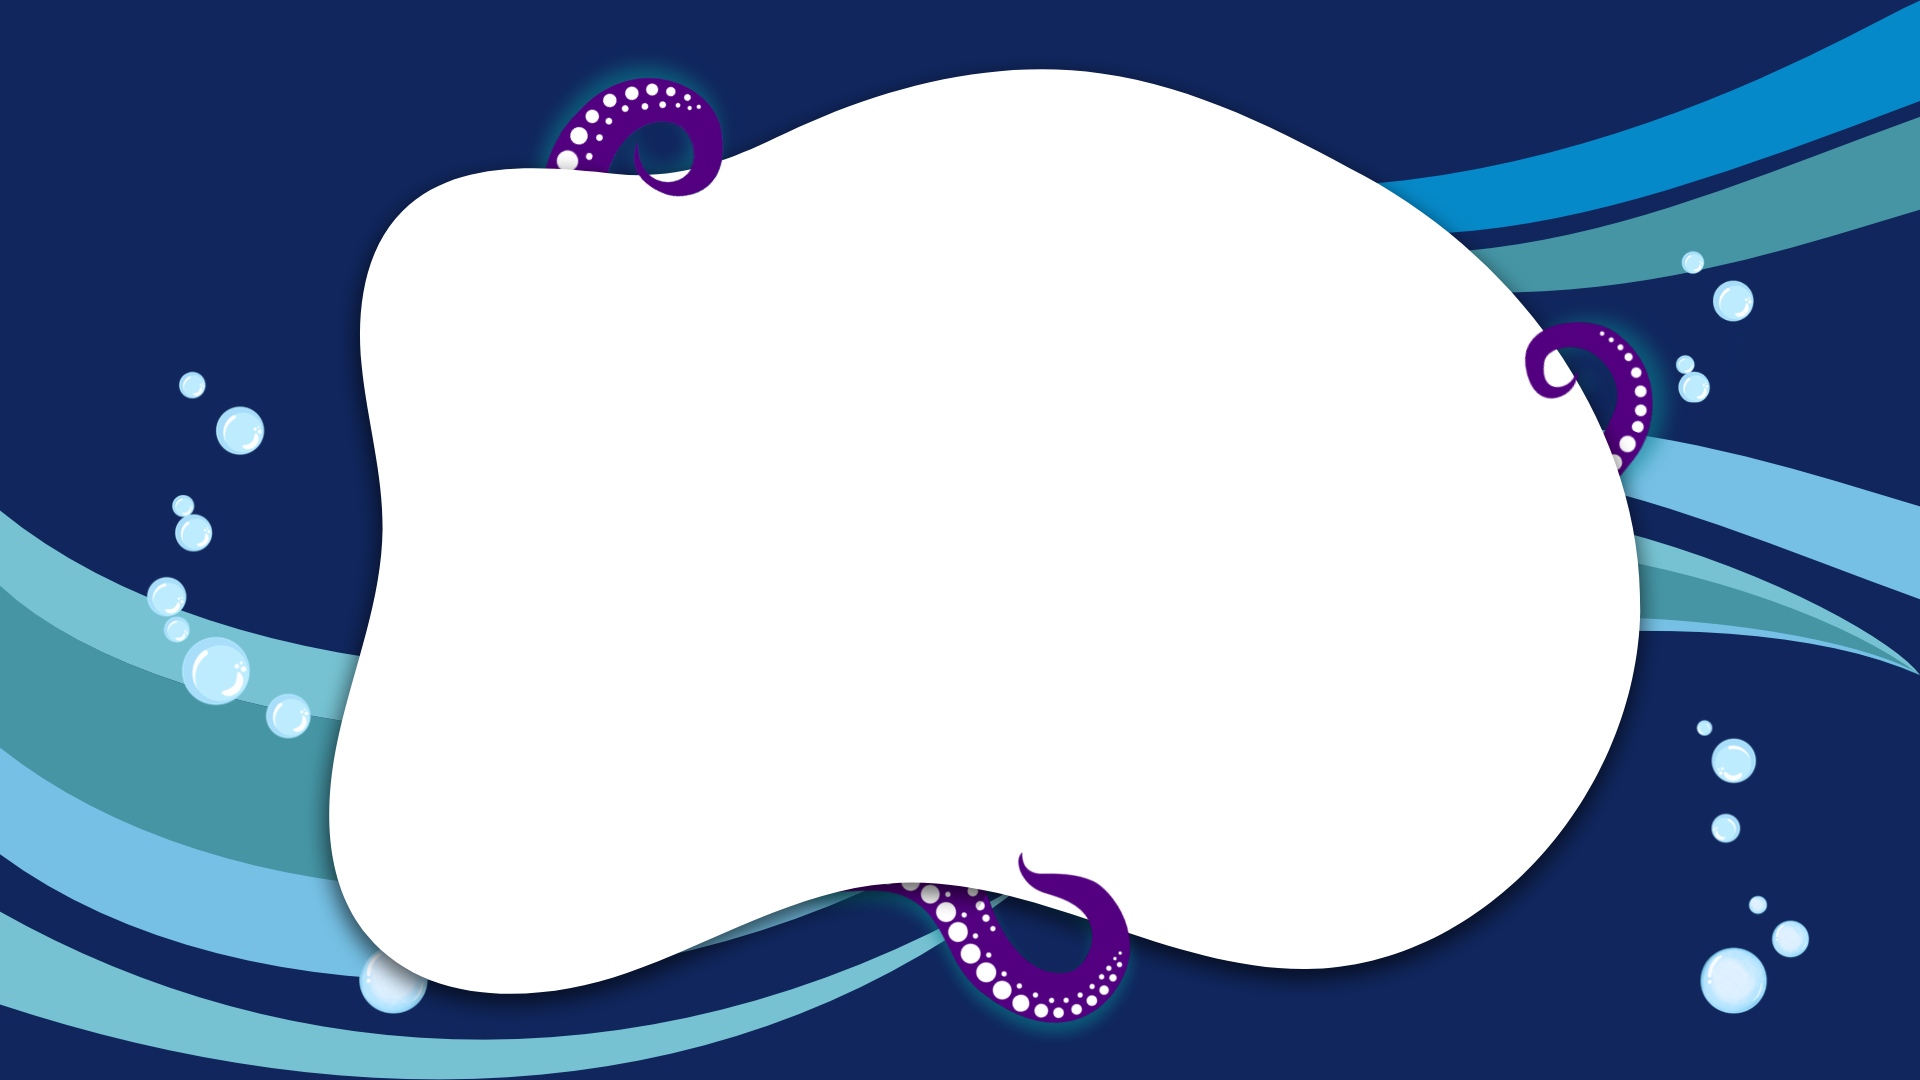
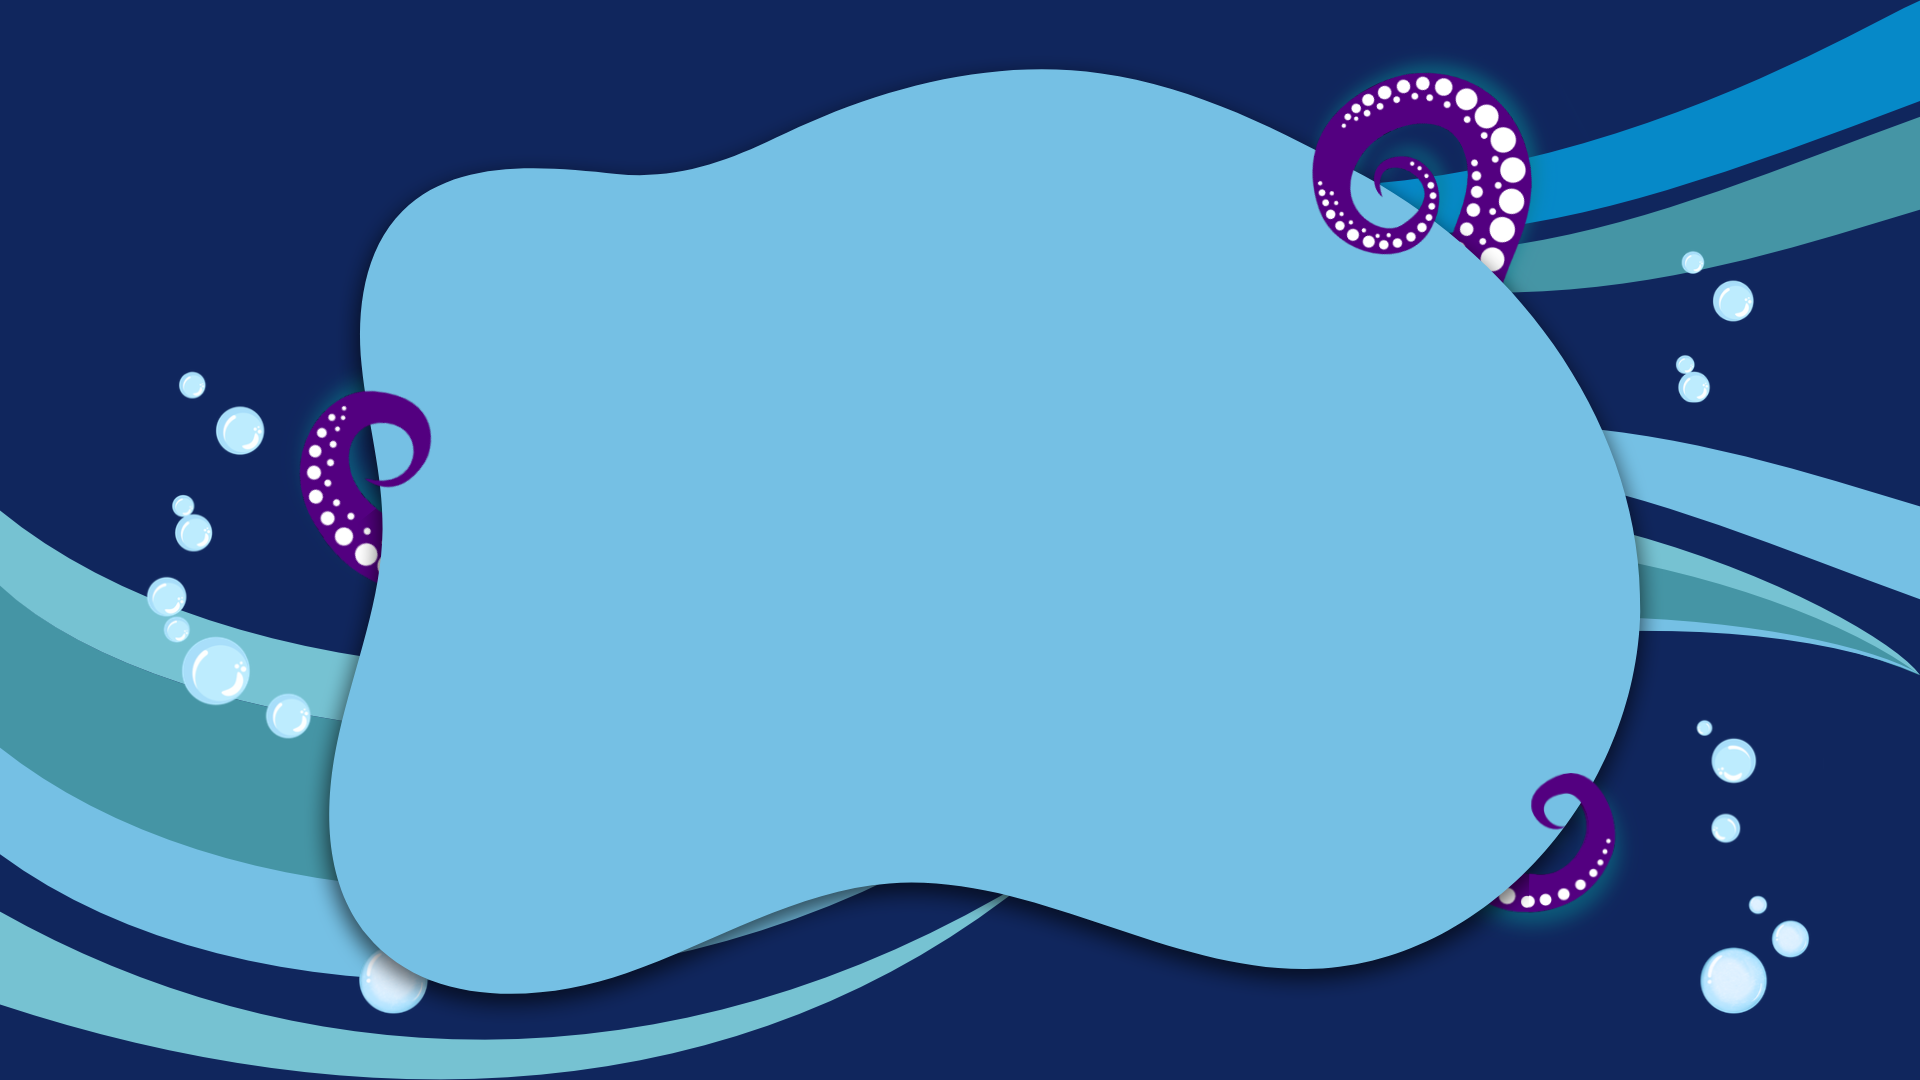
Fix dark-mode hero/tag contrast and pull category images on archives
Swap the dark-mode hero frame for the new sky-blue-panel variant, then
fix the resulting contrast issues: hero date tag and category pills
were relying on translucent teal that blended into the new panel, so
both switch to solid fills (purple / navy) that hold ~6-7:1 contrast.
Also brightened category/tag pills sitewide in dark mode (teal-bright
instead of base teal) and gave the sidebar octopus plate a matching
sky-blue background instead of stark white.

Category tiles on the archives page previously showed a flat color
square since taxonomy term pages have no cover image of their own;
they now pull the cover image from the latest post in that category.

diff --git a/blog/assets/scss/custom.scss b/blog/assets/scss/custom.scss
@@ -49,6 +49,7 @@ figure.float-right {
     --brand-lightblue: #bdecfe;
     --brand-teal: #4faab3;
     --brand-teal-bright: #7dc4cb;
+    --brand-sky: #75c0e4;
     --brand-ink: #06171f;
 
     --base-font-family: "Garet", var(--sys-font-family), var(--zh-font-family), sans-serif;
@@ -94,21 +95,29 @@ figure.float-right {
         --card-text-color-tertiary: rgba(238, 247, 252, 0.55);
         --card-separator-color: rgba(238, 247, 252, 0.14);
 
-        --changelog-category-bg: rgba(79, 170, 179, 0.22);
-        --changelog-category-bg-hover: rgba(79, 170, 179, 0.34);
-        --changelog-category-text: var(--brand-lightblue);
+        /* Solid teal-bright, not a translucent teal tint - a rgba(teal) over
+           the dark navy card blends back toward navy and barely reads as a
+           chip at all (contrast-checked at ~1.4:1 against the card). */
+        --changelog-category-bg: var(--brand-teal-bright);
+        --changelog-category-bg-hover: var(--brand-teal);
+        --changelog-category-text: var(--brand-ink);
     }
 }
 
 /*
-*   Sidebar mark: give the octopus a constant white plate so the purple
-*   mark reads the same on both the light and navy-dark page background.
+*   Sidebar mark: give the octopus a plate so the purple mark reads clearly
+*   against the page background. Dark mode swaps to the same sky-blue tone
+*   as the hero frame's panel instead of a stark white cutout.
 */
 .sidebar header .site-avatar .site-logo {
     background-color: #ffffff;
     padding: 10%;
     box-sizing: border-box;
     object-fit: contain;
+
+    [data-scheme="dark"] & {
+        background-color: var(--brand-sky);
+    }
 }
 
 /*
@@ -130,6 +139,13 @@ figure.float-right {
 .article-tags a {
     background-color: var(--brand-teal) !important;
     color: var(--brand-ink) !important;
+}
+
+/* Dark mode: the base teal reads too close to the dark navy card behind it
+   (~4.6:1 and the two hues are close cousins); teal-bright separates cleanly. */
+[data-scheme="dark"] .article-category a,
+[data-scheme="dark"] .article-tags a {
+    background-color: var(--brand-teal-bright) !important;
 }
 
 /*
@@ -276,28 +292,32 @@ figure.float-right {
         min-height: 500px;
     }
 
-    /* The hero's background comes from a fixed image, so it can't pick up
-       the lighter --card-background tone every other card uses to separate
-       from the page. On dark, its own navy is nearly identical to the page
-       background, so a thin teal edge + soft glow stand in for that. */
+    /* A thin light edge to separate the frame from the navy page behind it -
+       the artwork's own dark corners otherwise soften into the background. */
     [data-scheme="dark"] & {
         background-image: url("/img/hero-frame-dark.png");
-        border: 1px solid rgba(79, 170, 179, 0.35);
-        box-shadow: var(--shadow-l2), 0 0 32px rgba(79, 170, 179, 0.18);
+        border: 1px solid rgba(189, 236, 254, 0.4);
+        box-shadow: var(--shadow-l2), 0 0 24px rgba(117, 192, 228, 0.18);
     }
 
-    /* Filled pills read fine on the pale frame regardless of site theme,
-       so the tag keeps its normal theme-dependent accent colors. */
+    /* The frame's center stays pale in both theme variants (white in light,
+       sky-blue in dark), so pills inside the hero get one fixed,
+       pale-background-safe treatment rather than each theme's normal
+       (page-tuned) accent colors, which would vanish or wash out here. */
+    .changelog-tag {
+        background-color: var(--brand-purple);
+        color: #ffffff;
+    }
 
-    /* The frame's center stays pale in both theme variants, so category
-       pills need one fixed, light-background-safe treatment rather than
-       the dark-theme default (light text), which would vanish here. */
+    /* Teal (translucent or solid) is too close in lightness to the sky-blue
+       dark-mode panel to read as a chip (~1:1 contrast blended) - solid navy
+       gives a clean ~7:1 against both panel variants instead. */
     .changelog-categories a {
-        background-color: rgba(79, 170, 179, 0.2);
-        color: var(--brand-navy);
+        background-color: var(--brand-navy);
+        color: var(--brand-lightblue);
 
         &:hover {
-            background-color: rgba(79, 170, 179, 0.34);
+            filter: brightness(1.3);
         }
     }
 }

diff --git a/blog/layouts/partials/article-list/tile.html b/blog/layouts/partials/article-list/tile.html
@@ -1,0 +1,53 @@
+{{/*
+Category/tag tiles (used on the archives page and taxonomy list pages) have
+no cover image of their own - term pages aren't real content files. Rather
+than falling back to a flat --card-background square, pull the cover image
+from the most recently published post in that term, so each tile previews
+what the category actually looks like.
+*/}}
+{{ $imageContext := .context }}
+{{ if in (slice "taxonomy" "section") .Type }}
+    {{ with .context.Pages.ByDate.Reverse | first 1 }}
+        {{ $imageContext = index . 0 }}
+    {{ end }}
+{{ end }}
+
+{{ $image := partialCached "helper/image" (dict "Context" $imageContext "Type" .Type) .context.RelPermalink .Type }}
+<article class="{{ if $image.exists }}has-image{{ end }}">
+    <a href="{{ .context.RelPermalink }}">
+
+        {{ if $image.exists }}
+            <div class="article-image">
+                {{ if $image.resource }}
+                    {{- $imageRaw := $image.resource | resources.Fingerprint "md5" -}}
+                    {{- $Permalink := $imageRaw.RelPermalink -}}
+                    {{- $Width := $imageRaw.Width -}}
+                    {{- $Height := $imageRaw.Height -}}
+
+                    {{- if .context.Site.Params.imageProcessing.cover.enabled -}}
+                        {{- $thumbnail := $imageRaw.Fill .size -}}
+                        {{- $Permalink = $thumbnail.RelPermalink -}}
+                        {{- $Width = $thumbnail.Width -}}
+                        {{- $Height = $thumbnail.Height -}}
+                    {{- end -}}
+
+                    <img src="{{ $Permalink }}"
+                        width="{{ $Width }}"
+                        height="{{ $Height }}"
+                        loading="lazy"
+                        alt="Featured image of post {{ .context.Title }}"
+                        {{ with .context.Slug }}data-key="{{ . }}" {{ end }}
+                        data-hash="{{ $imageRaw.Data.Integrity }}">
+                {{ else }}
+                    <img src="{{ $image.permalink }}" loading="lazy" data-key="{{ .context.Slug }}" data-hash="{{ $image.permalink }}"/>
+                {{ end }}
+            </div>
+        {{ end }}
+
+        <div class="article-details">
+            <h2 class="article-title">
+                {{- .context.Title -}}
+            </h2>
+        </div>
+    </a>
+</article>
